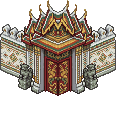
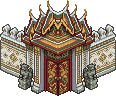
Gates set flush into walls: palace gate on its foot with continuous front wall; south city gatehouse embedded in the city wall with straight bridge path
Claude-Session: https://claude.ai/code/session_019fMb1LJfrrzNB55xtsXcpM

diff --git a/shared/td/ayutthaya.js b/shared/td/ayutthaya.js
@@ -140,7 +140,7 @@ function buildTown() {
   // === พระราชวังหลวง (เหนือ) ===
   P('env/b_thronehall', 60, 22, { foot: [8, 4], scale: 1.45, alt: 'env/b_viharn', altScale: 1.45, label: 'พระที่นั่งสรรเพชญ์ปราสาท', glow: [-50, 100, 0xffe1a0, 0.8] });
   P('env/b_palacegate_front', 60, 30, { foot: [6, 2], scale: 1.2, alt: 'env/b_palacegate3', altScale: 0.95, label: 'ประตูพระราชวัง', glow: [-40, 60, 0xffe1a0, 0.6] });
-  for (const x of [49, 52, 55, 65, 68, 71]) P('env/p_brickwall', x, 30, { foot: [3, 1], scale: 1.1, alt: 'td_ruin' });   // กำแพงแก้วแนวหน้าวัง
+  for (const x of [48.15, 51.15, 54.15, 65.85, 68.85, 71.85]) P('env/p_brickwall', x, 30, { foot: [3, 1], scale: 48 / 42, alt: 'td_ruin' });   // กำแพงแก้วหน้าวัง ต่อชิดประตูเป็นแนวเดียว
   P('env/b_pavilion', 51, 21, { foot: [4, 2], scale: 0.65, glow: [-20, 40, 0xffe1a0, 0.5] }); P('env/b_pavilion', 69, 21, { foot: [4, 2], scale: 0.65, flip: true, glow: [-20, 40, 0xffe1a0, 0.5] });
   for (const x of [51, 55, 65, 69]) { small('p_banner', x, 33, { alt: 'env/p_lantern' }); }
   for (const x of [49, 71]) { small('p_lion', x, 27, { scale: 1.3, flip: x > 60 }); tree(x, 18, 'pink', 1); }
@@ -217,9 +217,9 @@ function buildTown() {
   for (const [x, y] of [[57, 62], [62, 62], [57, 69], [62, 69]]) small('p_lanternpole', x, y, { glow: LAMP, alt: 'env/p_lantern' });
   reserve(43, 60, 77, 72);
   // ประตูใต้
-  small('p_lion', 56, 87, { scale: 1.2 }); small('p_lion', 63, 87, { scale: 1.2, flip: true });
-  small('p_torch', 56, 85, { glow: TORCH }); small('p_torch', 63, 85, { glow: TORCH });
-  P('env/p_board', 66, 83, { foot: [2, 1], scale: 0.9, alt: 'bounty_board', altScale: 1, label: 'ป้ายประกาศค่าหัว' });
+  P('env/b_palacegate_front', 60, 90.6, { foot: [0, 0], scale: 1.35, alt: 'env/p_arch', altScale: 2, label: 'ประตูเมืองใต้', glow: [-50, 80, 0xffe1a0, 0.7] });   // ซุ้มประตูเมือง ฝังในกำแพง ทางเดินตรงเข้าประตู
+  small('p_torch', 55, 83, { glow: TORCH }); small('p_torch', 65, 83, { glow: TORCH });
+  P('env/p_board', 69, 82, { foot: [2, 1], scale: 0.9, alt: 'bounty_board', altScale: 1, label: 'ป้ายประกาศค่าหัว' });
   small('p_bench', 53, 83); small('p_well2', 53, 81, { alt: 'env/p_well' });
   reserve(51, 80, 68, 92);
   // ประตูตะวันตก/ตะวันออก
@@ -263,7 +263,7 @@ function buildTown() {
   const mark = (cx, cy, rx, ry) => { for (let y = cy - ry; y <= cy; y++) for (let x = cx - rx; x <= cx + rx; x++) if (inMap(x, y)) busy[y][x] = true; };
   for (const p of props) { const [fw, fh] = p.foot || [1, 1], tx = Math.round(p.x / TILE), ty = Math.round(p.y / TILE); if (fw >= 2) mark(tx, ty + 1, Math.ceil(fw / 2) + 1, fh + 2); else mark(tx, ty, fw ? 1 : 0, fw ? 1 : 0); }
   mark(60, 36, 11, 6);
-  mark(33, 36, 12, 22); mark(60, 61, 12, 22);                                         // ลานวัดไชยฯ · ลานน้ำพุ                                                              // ลานหน้าประตูวังโล่ง
+  mark(33, 36, 12, 22); mark(60, 61, 12, 22); mark(60, 90, 8, 9);                                         // ลานวัดไชยฯ · ลานน้ำพุ                                                              // ลานหน้าประตูวังโล่ง
   for (const [x, y] of [[52, 68], [64, 56], [95, 62], [68, 68], [28, 57], [38, 40], [30, 44], [34, 57], [44, 57], [55, 57]]) mark(x, y + 2, 3, 5);
   const open = (x0, y0, x1, y1) => { for (let y = y0; y <= y1; y++) for (let x = x0; x <= x1; x++) if (!inMap(x, y) || busy[y][x] || !isIsland(x, y)) return false; return true; };
   for (let y = 12; y <= 90; y += 2) for (let x = 16; x <= 104; x += 2) {

diff --git a/client/js/scenes/TopDownScene.js b/client/js/scenes/TopDownScene.js
@@ -367,7 +367,7 @@ export class TopDownScene extends Phaser.Scene {
     const bigLabel = (x, y, text, color) => makeText(this, x * TILE, y * TILE, text, { fontSize: '10px', color }).setOrigin(0.5).setDepth(9000).setAlpha(0.8);
     if (this.M.realm) { for (const [x, y, text] of this.layout.labels || []) bigLabel(x, y, text, '#ffe9a6'); return; }
     const zoneLabel = (tx, ty, text) => makeText(this, (tx + OX) * TILE, ty * TILE, text, { fontSize: '8px', color: '#ffe9a6' }).setOrigin(0.5).setDepth(9000).setAlpha(0.85);
-    zoneLabel(86, 16, '✦ วัดพระศรีสรรเพชญ์ ✦'); zoneLabel(33, 14, '✦ วัดไชยวัฒนาราม ✦'); zoneLabel(60, 42, '⛲ ลานเมือง'); zoneLabel(60, 84, '⚔ ประตูเมืองใต้'); zoneLabel(60, 106, '🌾 ทุ่งนาบางปะอิน'); zoneLabel(60, 62, '🧺 ตลาดหัวรอ'); zoneLabel(30, 50, '🥊 สำนักดาบ·มวย'); zoneLabel(92, 50, '🔨 ย่านช่างน้ำพี้'); zoneLabel(45, 37, '🪷 สวนหลวง'); zoneLabel(46, 52, '🌿 ศาลาโอสถ'); zoneLabel(60, 76, '🏘 ชุมชนริมซอย');
+    zoneLabel(86, 16, '✦ วัดพระศรีสรรเพชญ์ ✦'); zoneLabel(33, 14, '✦ วัดไชยวัฒนาราม ✦'); zoneLabel(60, 42, '⛲ ลานเมือง'); zoneLabel(60, 106, '🌾 ทุ่งนาบางปะอิน'); zoneLabel(60, 62, '🧺 ตลาดหัวรอ'); zoneLabel(30, 50, '🥊 สำนักดาบ·มวย'); zoneLabel(92, 50, '🔨 ย่านช่างน้ำพี้'); zoneLabel(45, 37, '🪷 สวนหลวง'); zoneLabel(46, 52, '🌿 ศาลาโอสถ'); zoneLabel(60, 76, '🏘 ชุมชนริมซอย');
     bigLabel(28, 60, '🎋 ป่าไผ่ปู่โสม', '#b9f6ca'); bigLabel(204, 58, '🪦 ป่าช้าวัดร้าง', '#e8daef'); bigLabel(OX + 60, 150, '🪷 บึงผีพราย', '#d6eaf8'); bigLabel(132, 176, '🌀 ประตูมิติหิมพานต์', '#e8daef');
   }
 
